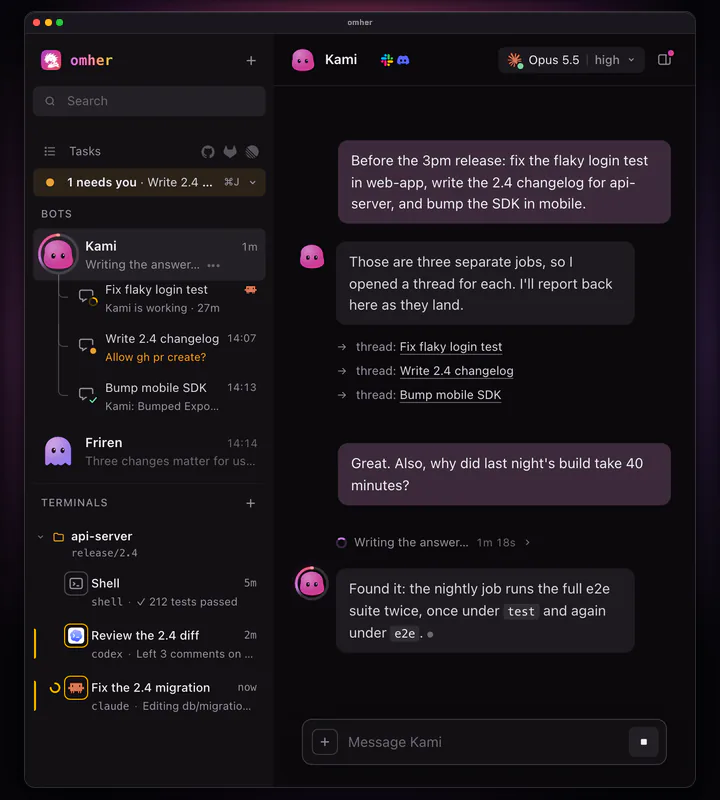
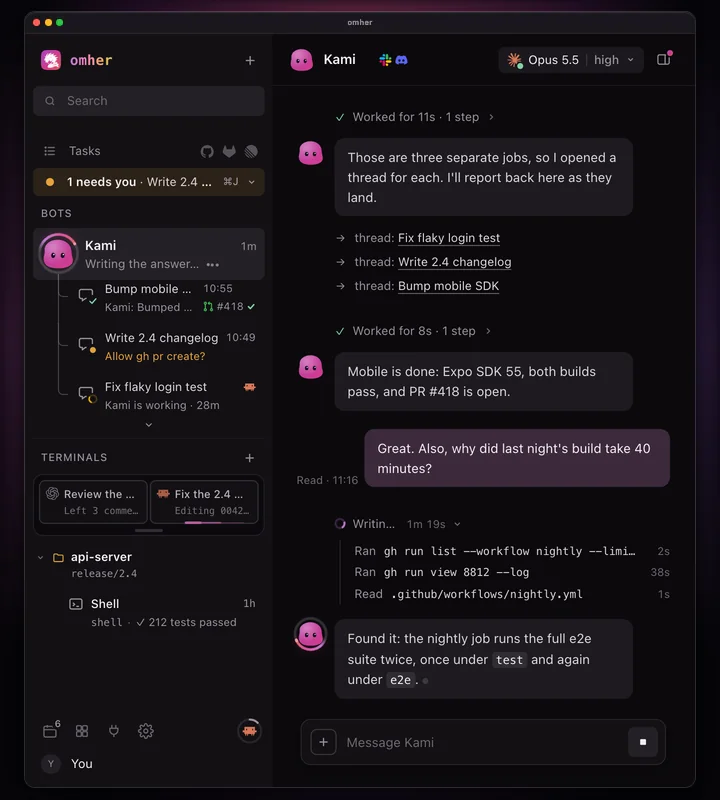
docs(omher): README and site stills of today's app (split cards in TERMINALS)
The README hero, the omher.app poster and its phone crop showed the app as of
2026-11-17. They now show today's omher, rendered by the current app code on the
mock bridge, with the same staged release-day story: Kami's three threads in three
live states (running with Claude Code at work, needs you, done with its PR #418
green), Friren and Juno, and Kami answering a follow-up live with timed steps.
TERMINALS now show the split layout card: the Codex and Claude Code sessions of
api-server sit in one split, so the card's two cells carry each CLI's mark and
last line, above the Shell row. The finished turns show their real "Worked for"
lines with a step each. Each file keeps its pixel size and the window's box
(hero 2001x1225, window at 91,56 1819x1111; poster 2400x1239 at 339,64; mobile
720x800 at 24,11), so site/index.html's --win-* crop still fits. Alt texts in
README.md and site/index.html describe the new stills.

Constraint: --win-* in site/index.html crop the poster and phone crop by the window box, so sizes and boxes must not move
Rejected: hand-drawn mockup of the split card | the still must be what the app renders today
Rejected: capture at dpr 2 in a 909x534 viewport | too short: Kami's threads collapsed and the split card overlapped the folder row
Confidence: high
Scope-risk: narrow
[…]

diff --git a/site/index.html b/site/index.html
@@ -752,7 +752,7 @@ body.rail-off .rail{opacity:0;pointer-events:none;visibility:hidden}
   </div>
   <!-- the window slot: the promo still today; a video element with a poster drops in here (set --win-l/t/w/h to 0 0 1 1 and --win-ar to the clip's ratio) -->
   <div class="omher__stage" data-omher-stage>
-  <figure class="omher__shot" data-app-shot><div class="omher__win" data-app-win data-app-slot><video data-app-film autoplay muted loop playsinline preload="metadata" poster="assets/omher-app.webp" width="2400" height="1240" aria-label="omher: you ask Kami for three release-day jobs and it opens a thread for each on its own; the threads run, one finishes, one waits for your approval, a Shell in TERMINALS turns into Claude Code while claude runs and back, and Kami answers a follow-up with its steps timed."><source src="assets/omher-app.webm" type="video/webm"><source src="assets/omher-app.mp4" type="video/mp4"></video><picture><source media="(max-width: 600px)" srcset="assets/omher-app-mobile.webp" width="720" height="800"><img src="assets/omher-app.webp" alt="omher: Kami split a release-day ask into three threads under its name, one running with Claude Code at work, one waiting for you, one done; TERMINALS below hold a Shell, a Codex and a Claude Code session in one folder, each with its CLI's logo, and Tasks sits on top." width="2400" height="1239" fetchpriority="high" decoding="async"></picture><span class="omher__sheen" aria-hidden="true"></span><span class="omher__glow" aria-hidden="true"></span></div></figure>
+  <figure class="omher__shot" data-app-shot><div class="omher__win" data-app-win data-app-slot><video data-app-film autoplay muted loop playsinline preload="metadata" poster="assets/omher-app.webp" width="2400" height="1240" aria-label="omher: you ask Kami for three release-day jobs and it opens a thread for each on its own; the threads run, one finishes, one waits for your approval, a Shell in TERMINALS turns into Claude Code while claude runs and back, and Kami answers a follow-up with its steps timed."><source src="assets/omher-app.webm" type="video/webm"><source src="assets/omher-app.mp4" type="video/mp4"></video><picture><source media="(max-width: 600px)" srcset="assets/omher-app-mobile.webp" width="720" height="800"><img src="assets/omher-app.webp" alt="omher: Kami split a release-day ask into three threads under its name, one running with Claude Code at work, one waiting for you, one done with its PR; TERMINALS below show a split card with a Codex and a Claude Code session side by side, each cell with its CLI's logo and last line, above a Shell in the same folder, and Tasks sits on top." width="2400" height="1239" fetchpriority="high" decoding="async"></picture><span class="omher__sheen" aria-hidden="true"></span><span class="omher__glow" aria-hidden="true"></span></div></figure>
   <div class="omher__act">
   <div class="omher__get" data-dl>
     <a class="osbtn osbtn--main" href="#omher" data-dl-k="mac-arm" data-mac-install><svg viewBox="0 0 24 24" aria-hidden="true"><path d="M16.37 12.6c.02 2.4 2.1 3.2 2.13 3.21-.02.06-.33 1.14-1.1 2.26-.66.97-1.35 1.93-2.43 1.95-1.06.02-1.4-.63-2.62-.63s-1.6.61-2.6.65c-1.04.04-1.84-1.05-2.5-2.01-1.36-1.97-2.4-5.57-1-8 .69-1.21 1.93-1.97 3.28-1.99 1.02-.02 1.99.69 2.62.69.62 0 1.8-.85 3.04-.73.52.02 1.98.21 2.92 1.58-.08.05-1.74 1.02-1.74 3.02M14.37 4.68c.56-.68.93-1.62.83-2.56-.8.03-1.77.53-2.35 1.21-.51.6-.97 1.56-.85 2.48.9.07 1.81-.46 2.37-1.13"/></svg>macOS (Apple silicon)</a>

diff --git a/README.md b/README.md
@@ -83,7 +83,7 @@ omh setup
 
 ### omher desktop
 
-<img src="assets/omher-hero.webp" alt="The omher desktop app in dark mode: the sidebar has Tasks with GitHub, GitLab and Linear, then the bot Kami with three threads it opened, each its own chat in a different live state (Fix flaky login test is running with Claude Code at work, Write 2.4 changelog needs you to allow gh pr create, Bump mobile SDK is done), the bots Friren and Juno, and TERMINALS with a Shell, a Codex session and a Claude Code session in the api-server folder, each with its CLI's logo; Kami's chat holds the ask that opened the three threads and a live answer about a slow nightly build" width="900">
+<img src="assets/omher-hero.webp" alt="The omher desktop app in dark mode: the sidebar has Tasks with GitHub, GitLab and Linear, then the bot Kami with three threads it opened, each its own chat in a different live state (Fix flaky login test is running with Claude Code at work, Write 2.4 changelog needs you to allow gh pr create, Bump mobile SDK is done with its PR #418 green), the bots Friren and Juno, and TERMINALS with a split card for the Codex and Claude Code sessions running side by side, each cell with its CLI's logo and last line, above the Shell in the api-server folder; Kami's chat holds the ask that opened the three threads and a live answer about a slow nightly build, its steps timed" width="900">
 
 Your Hermes bots and coding agents, in one window.
 
